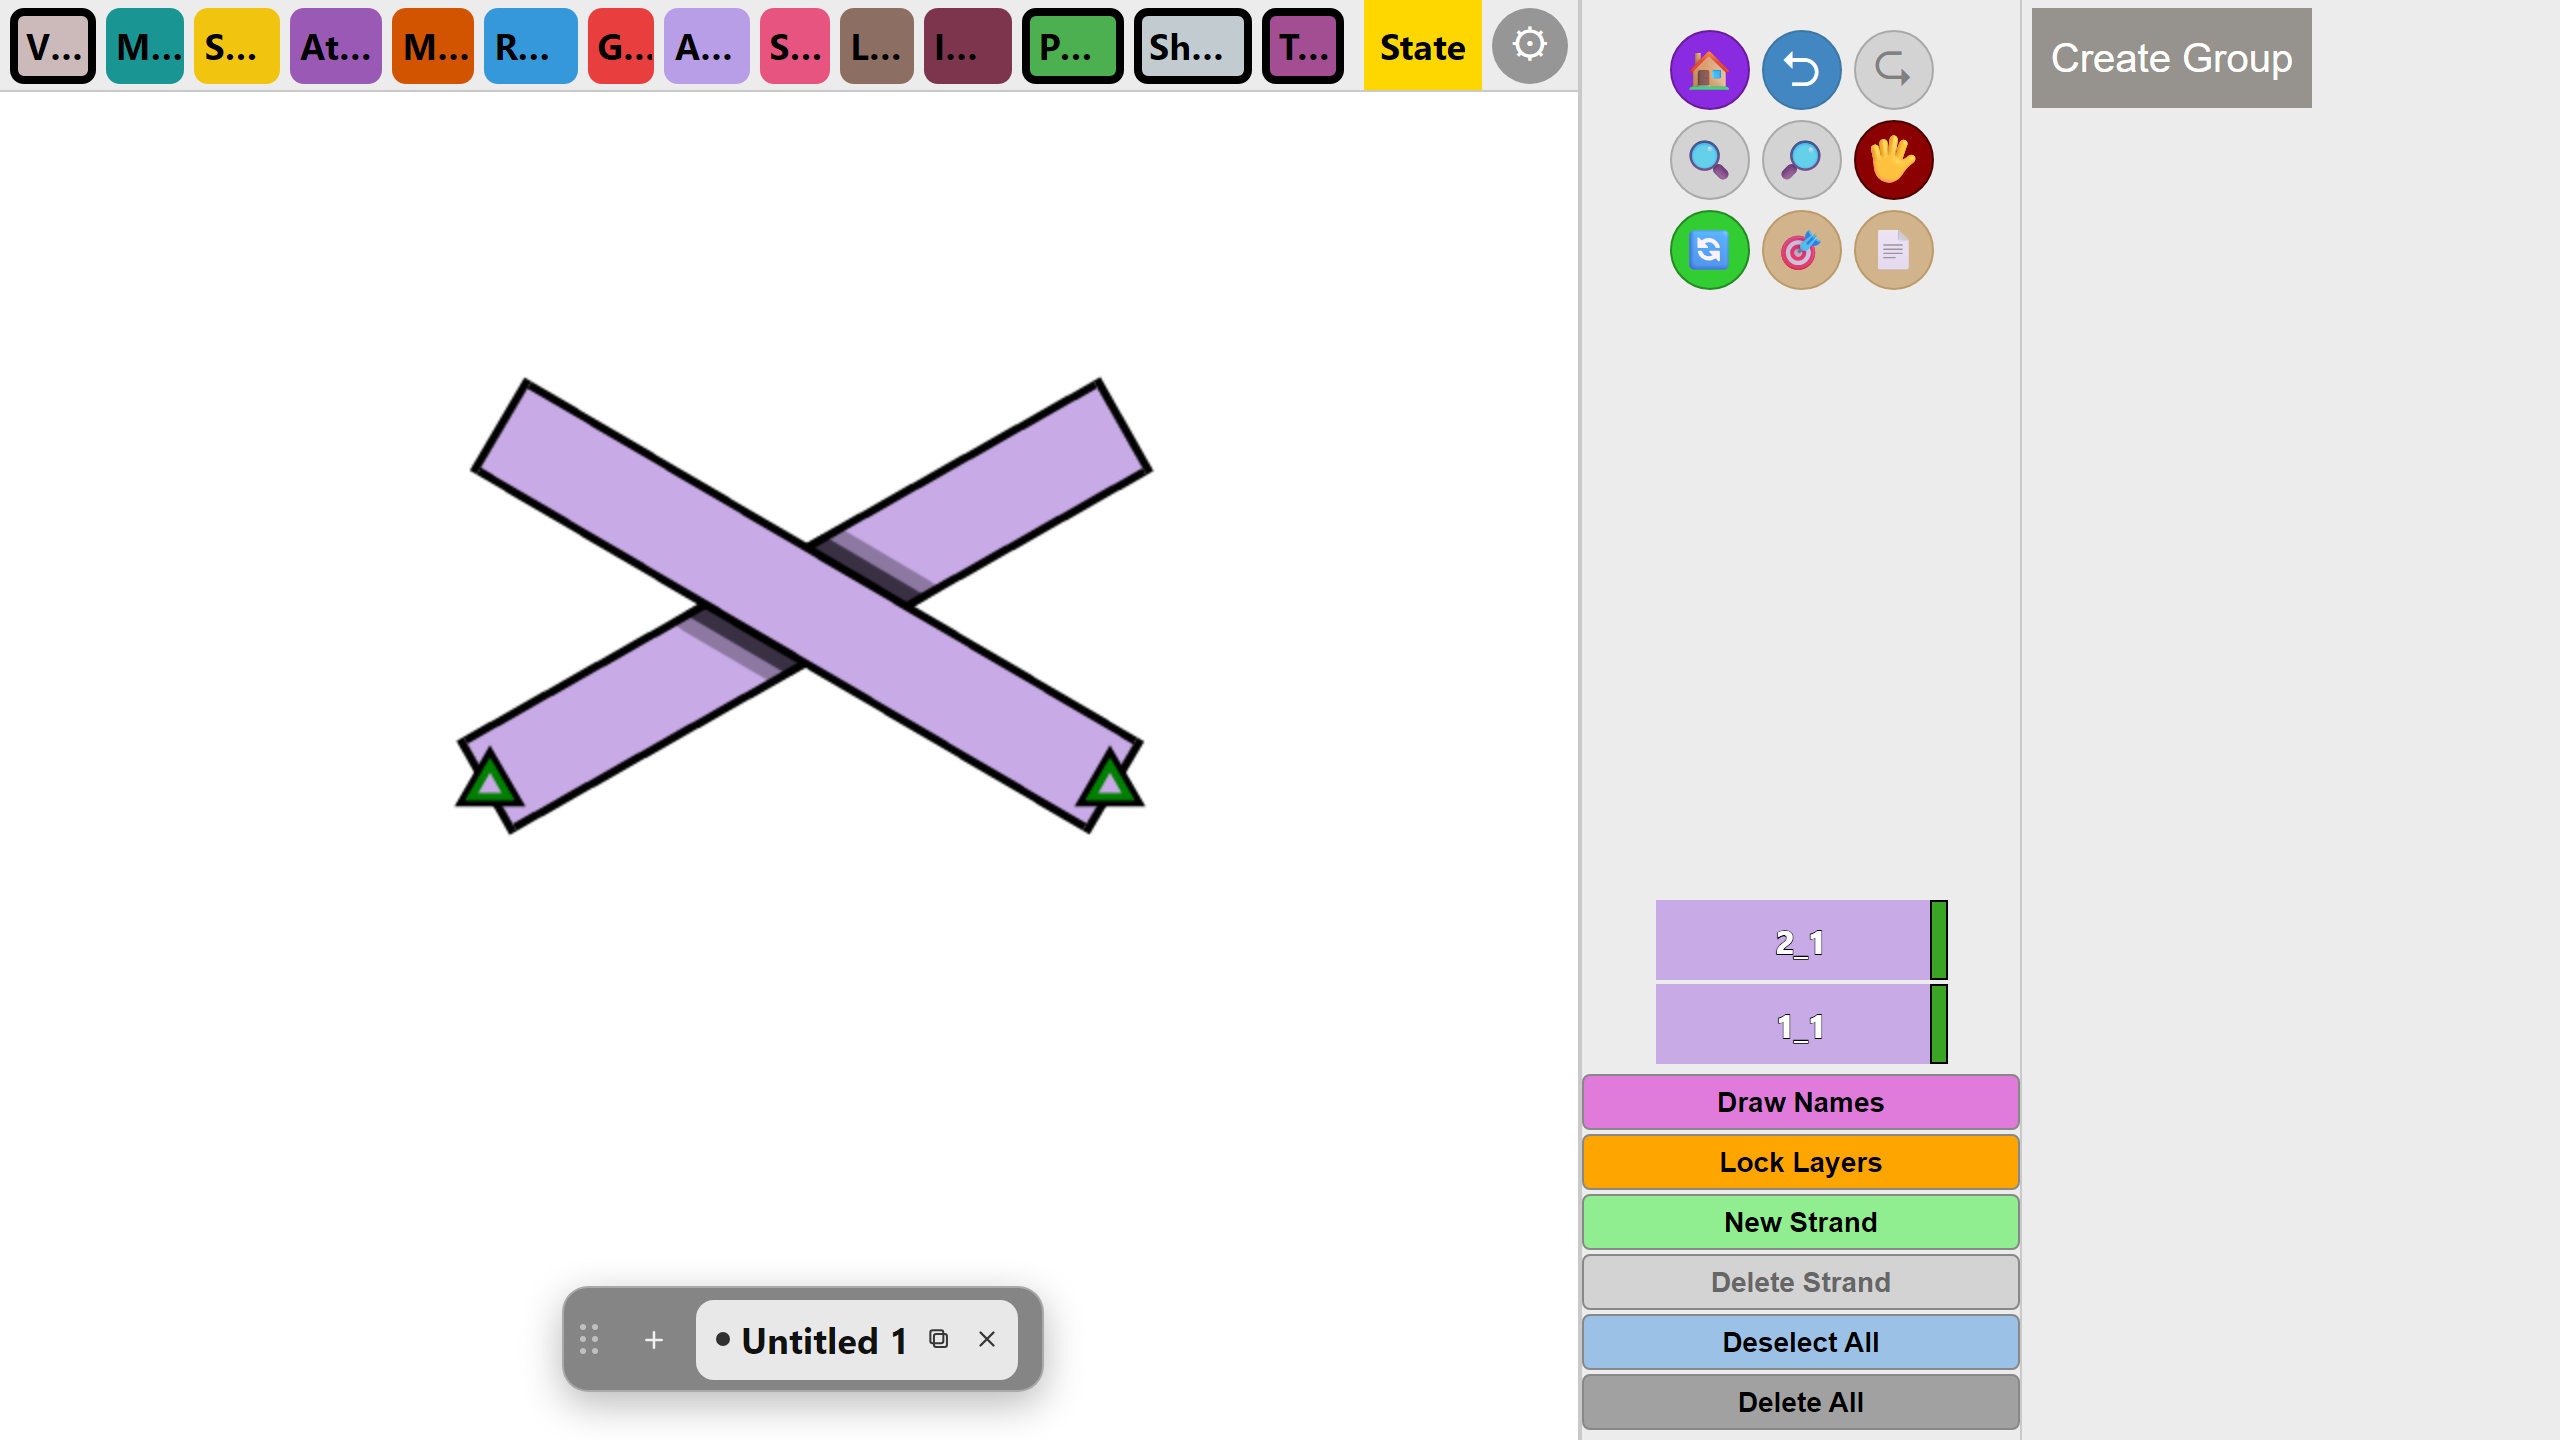
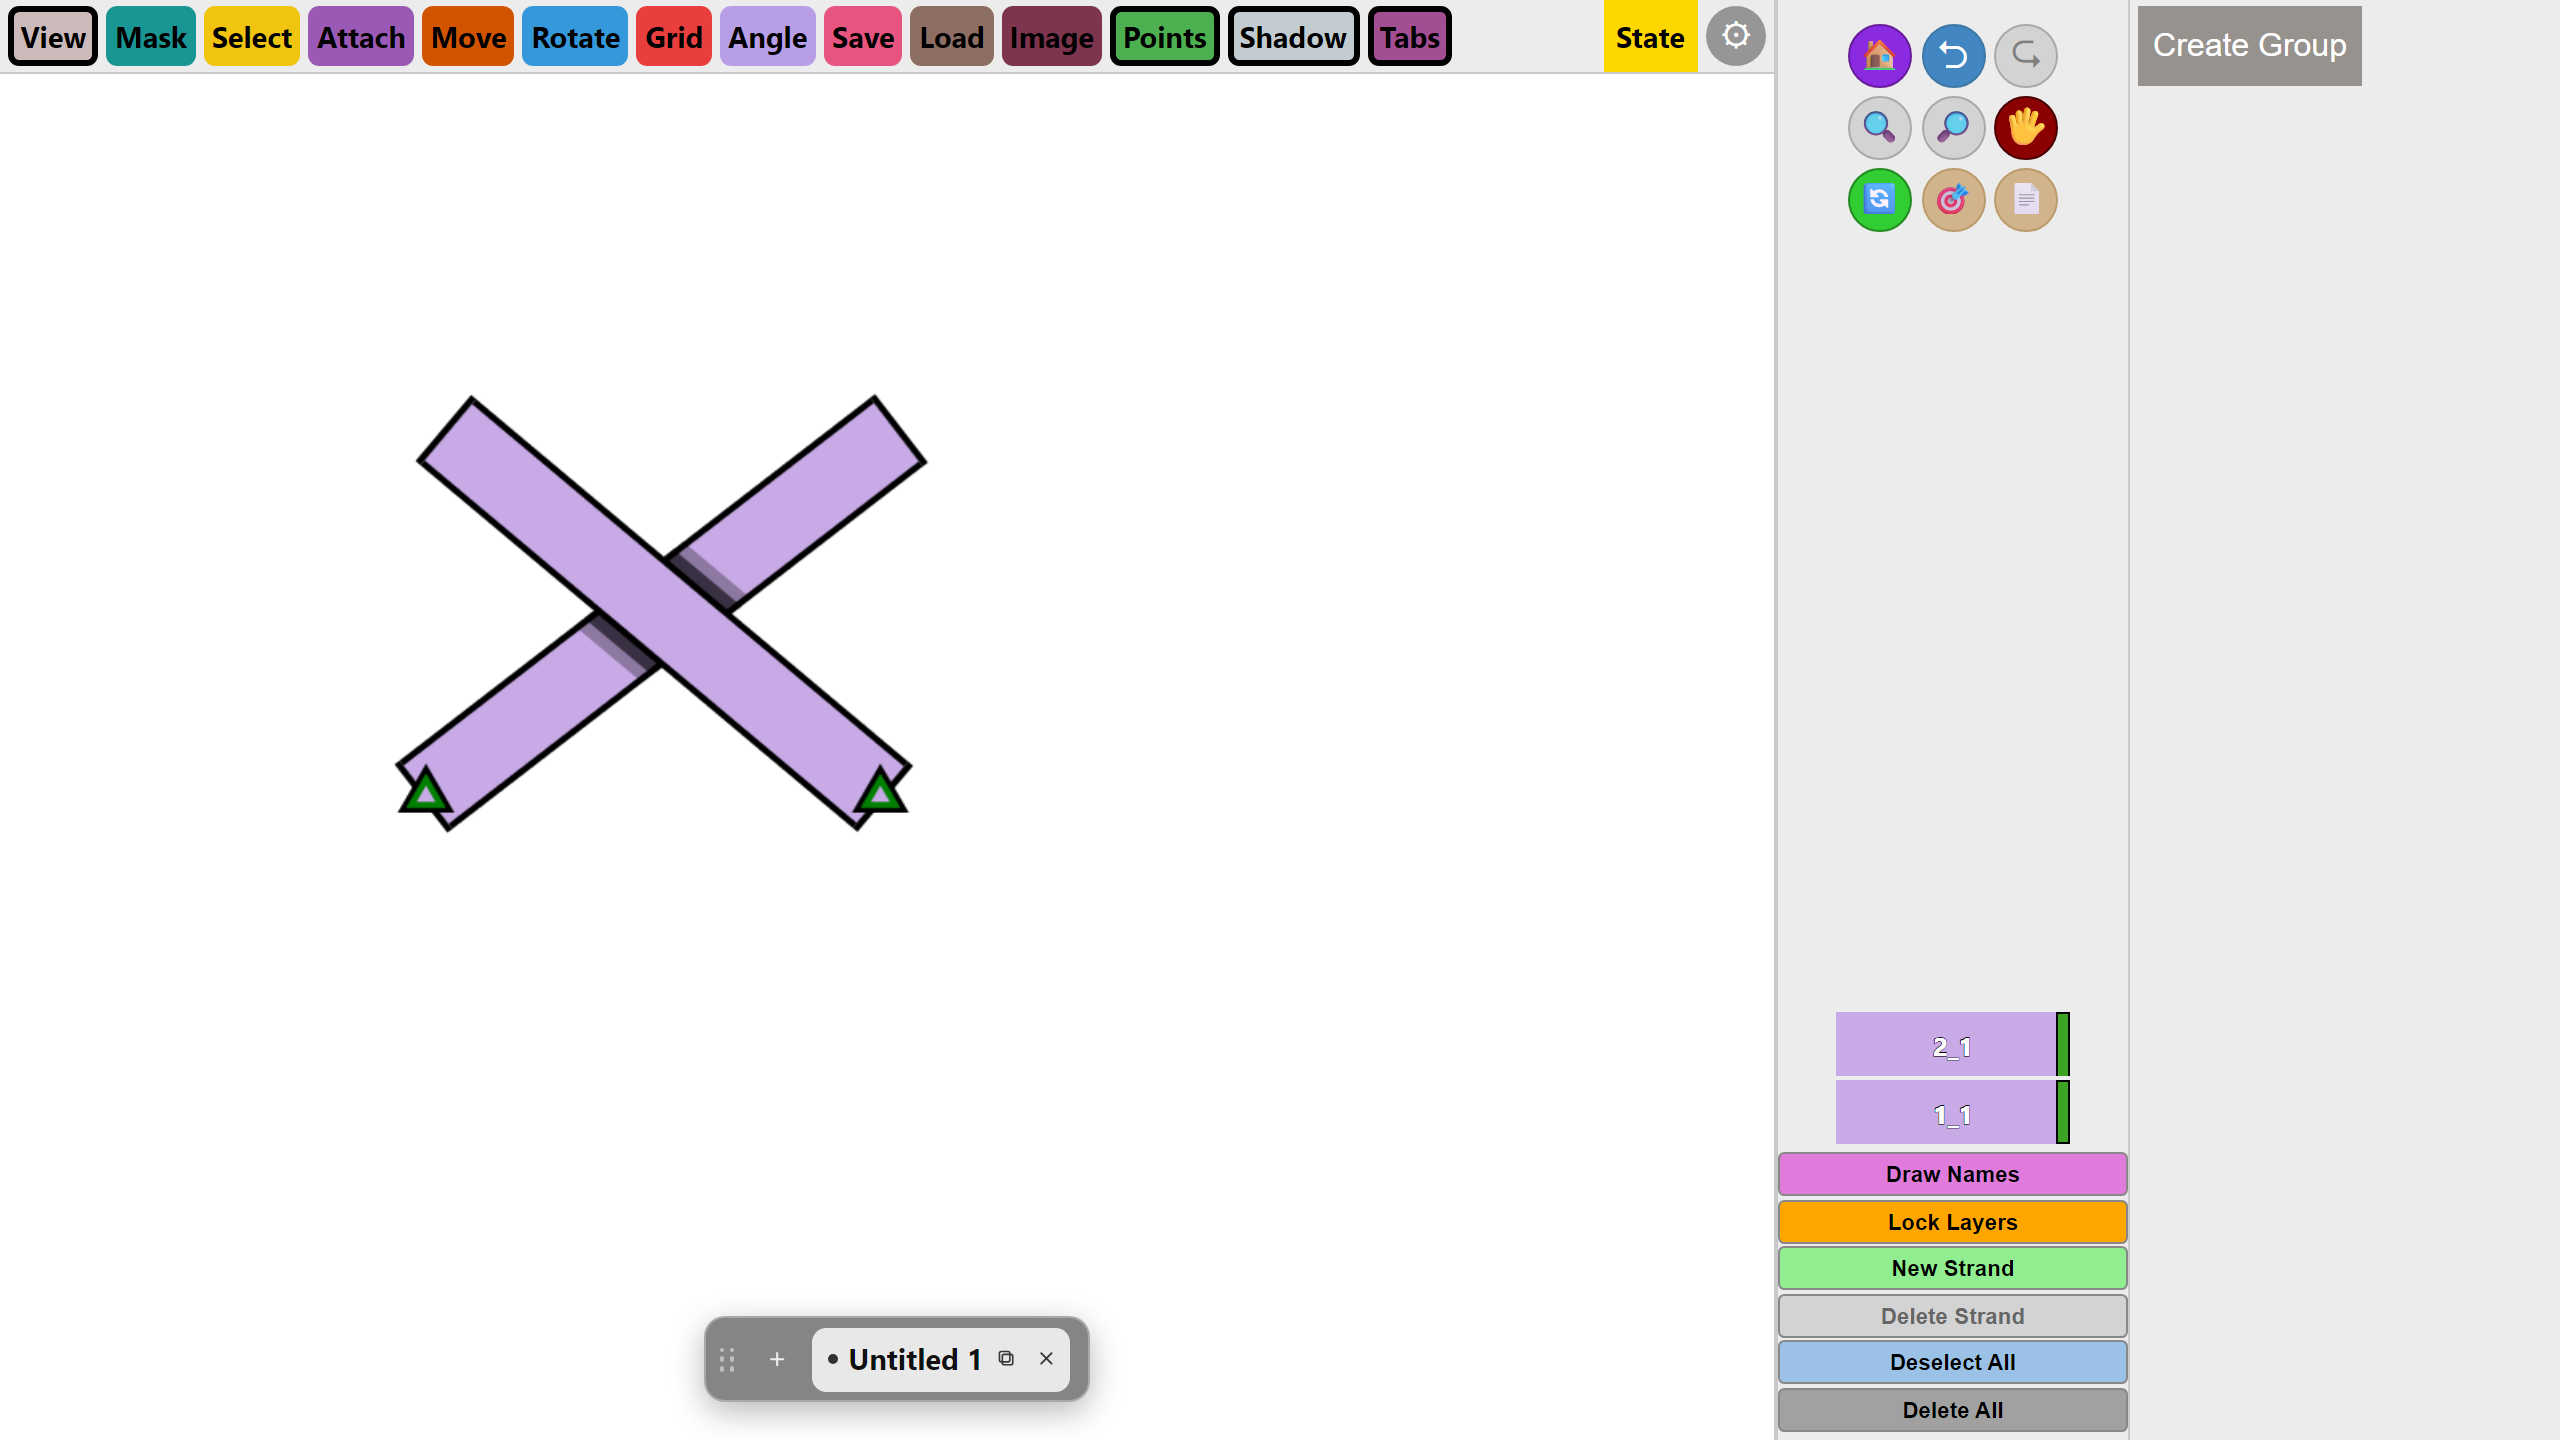
Default app to 80% zoom; revert toolbar text to 18px; refresh README shot
The editor only "looked best" at 80% browser zoom, so bake that in: add
`html { zoom: 0.8 }` (reflows to fill the viewport like real browser zoom,
so the new 100% renders exactly like the old 80%). Revert the toolbar
button text from the responsive clamp(10–14px) back to the previous fixed
18px. Regenerate docs/screenshot.png from localhost at the new default
(verified byte-identical to a fresh localhost capture and to the live site,
0 pixel diff).

diff --git a/src/ui/toolbar.css b/src/ui/toolbar.css
@@ -5,37 +5,27 @@
 .toolbar {
   display: flex;
   align-items: center;
-  flex-wrap: wrap;
-  align-content: flex-start;
-  gap: 4px 5px;            /* row-gap 4 (when wrapped), column-gap 5 */
-  min-height: 46px;
-  flex: 0 0 auto;          /* grow vertically when buttons wrap */
+  gap: 5px;
+  height: 46px;
+  flex: 0 0 46px;
   padding: 3px 5px;
   box-sizing: border-box;
   background: var(--window-bg);
   border-bottom: 1px solid var(--panel-border);
   overflow: hidden;
-  /* Make the toolbar a query container so .tb-btn font-size can respond to the
-   * toolbar's own width (cqw). The mode buttons then shrink their text to stay
-   * on one row at any window size instead of truncating to "V…/M…", and only
-   * wrap to a second row as a last resort on very narrow / mobile widths. */
-  container-type: inline-size;
 }
 
 .tb-spacer { flex: 1 1 auto; }
 
 .tb-btn {
-  flex: 0 0 auto;             /* keep full label (no shrink → no ellipsis) */
+  flex: 0 1 auto;
   height: 38px;
-  max-width: 140px;
+  max-width: 110px;
   min-width: 0;
   padding: 0 4px;
   border-radius: 7px;
   border: 1px solid transparent;
-  /* OSS uses 14px; clamp down toward 10px so all 14 buttons fit a narrow row. */
-  font-weight: 700;
-  font-size: clamp(10px, calc(2.63cqw - 9px), 14px);
-  font-family: system-ui, -apple-system, sans-serif;
+  font: 700 18px system-ui, -apple-system, sans-serif;
   color: #000;                /* black text on the colored fills, like OSS */
   background: var(--bg);
   cursor: pointer;
@@ -56,9 +46,7 @@
   border-radius: 0;
   background: #FFD700;
   color: #000;
-  font-weight: 700;
-  font-size: clamp(10px, calc(2.63cqw - 9px), 14px);
-  font-family: system-ui, -apple-system, sans-serif;
+  font: 700 18px system-ui, -apple-system, sans-serif;
   cursor: pointer;
 }
 .tb-state:hover { background: #FFC200; }

diff --git a/src/styles.css b/src/styles.css
@@ -9,6 +9,11 @@
 @import './ui/tabEdge.css';
 
 * { box-sizing: border-box; }
+/* Default the whole app to 80% — equivalent to pressing Ctrl+- to 80% in the
+ * browser. The render only "looked best" at 80% browser zoom, so we bake that
+ * in: the new 100% renders exactly like the old 80%. zoom (not transform) is
+ * used so the layout reflows to fill the viewport like real browser zoom does. */
+html { zoom: 0.8; }
 html, body, #root { height: 100%; margin: 0; }
 body {
   font: 14px/1.4 system-ui, -apple-system, sans-serif;